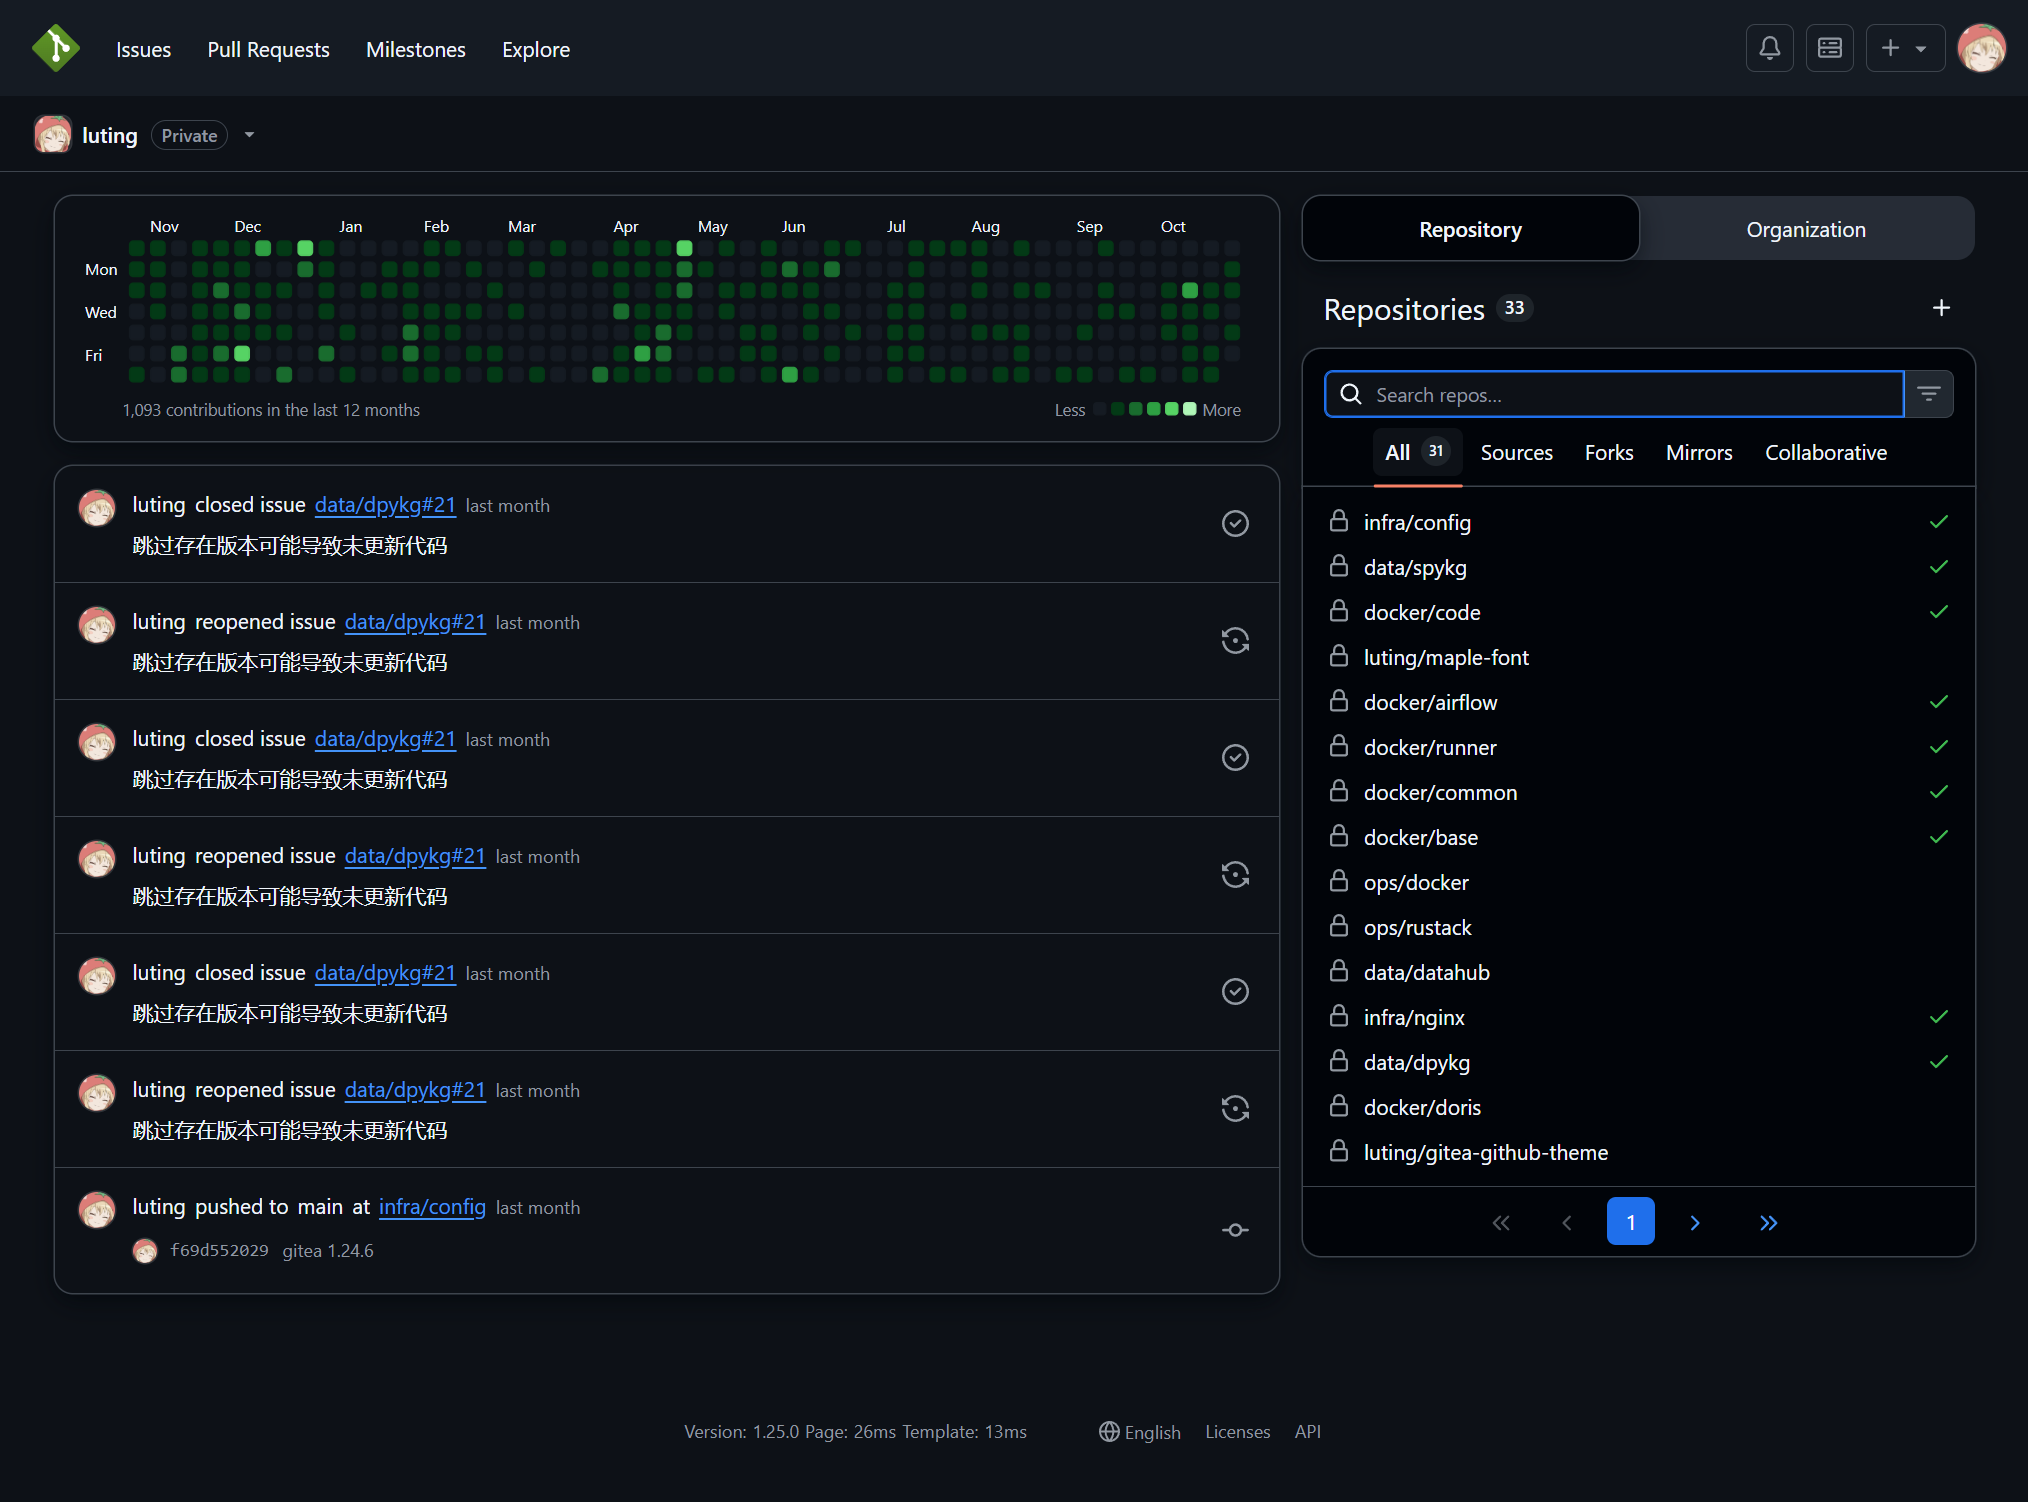
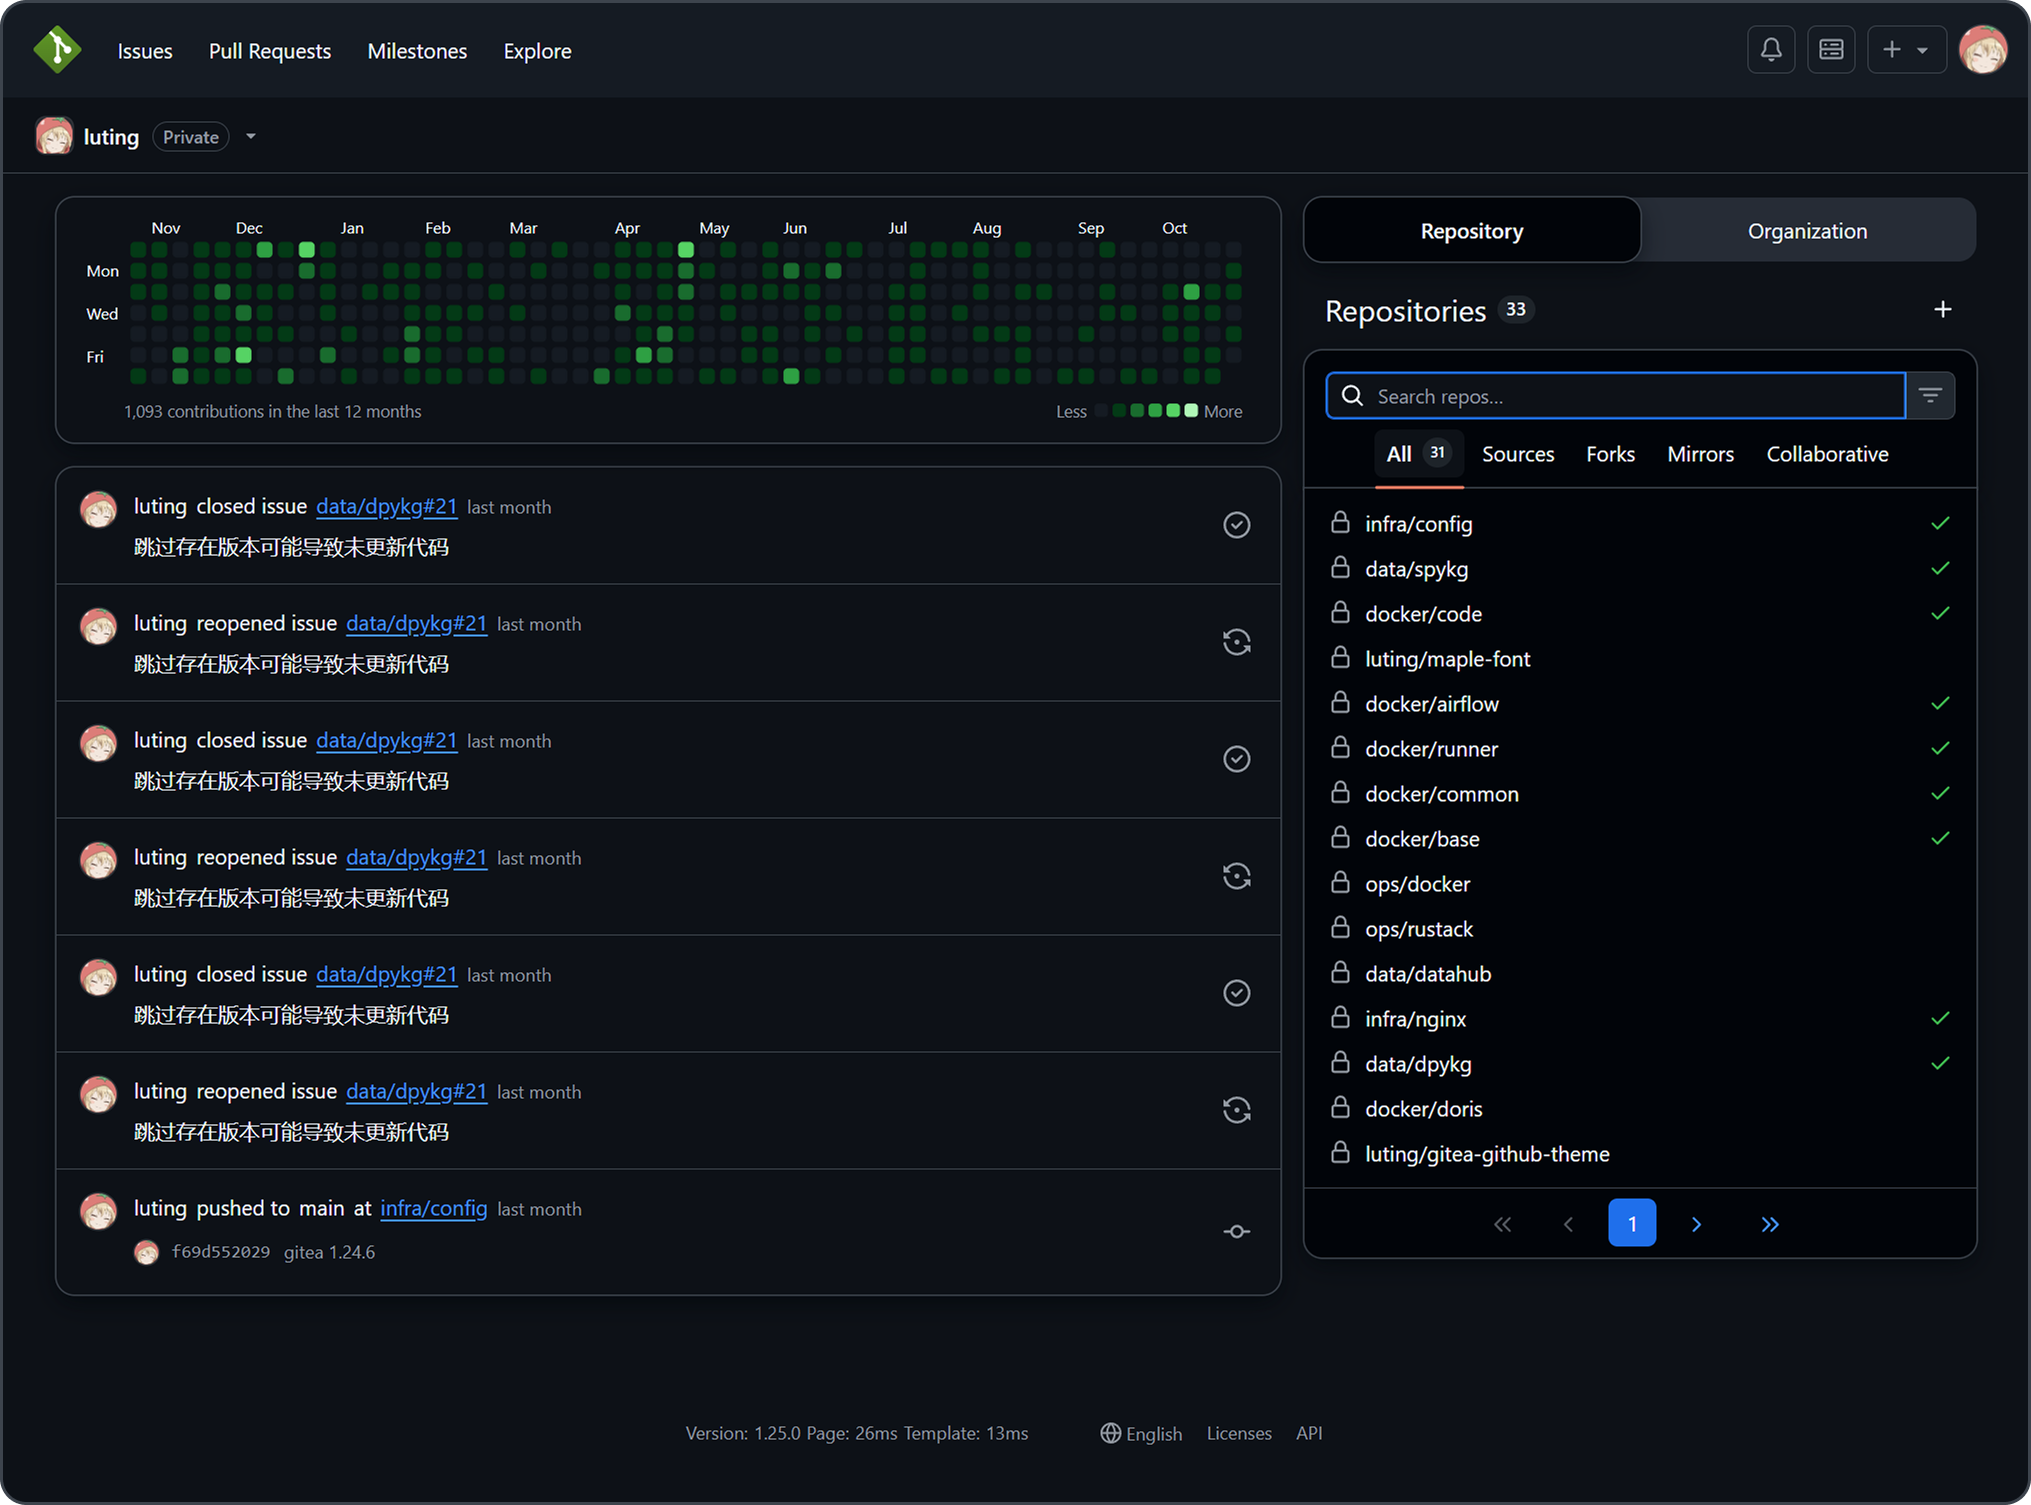
update screenshot

diff --git a/README.md b/README.md
@@ -12,13 +12,7 @@
 
 不仅仅是在颜色上, 在样式细节上也追求 GitHub 风格的 Gitea 主题.
 
-</div>
-
-<div style="border-radius: 12px; box-shadow: 0px 0px 0px 1px #3d444d, 0px 6px 12px -3px #01040966, 0px 6px 18px 0px #01040966; overflow: hidden;">
-
 ![Dashboard](screenshots/dashboard.png)
-
-</div>
 
 > [!TIP]
 >
